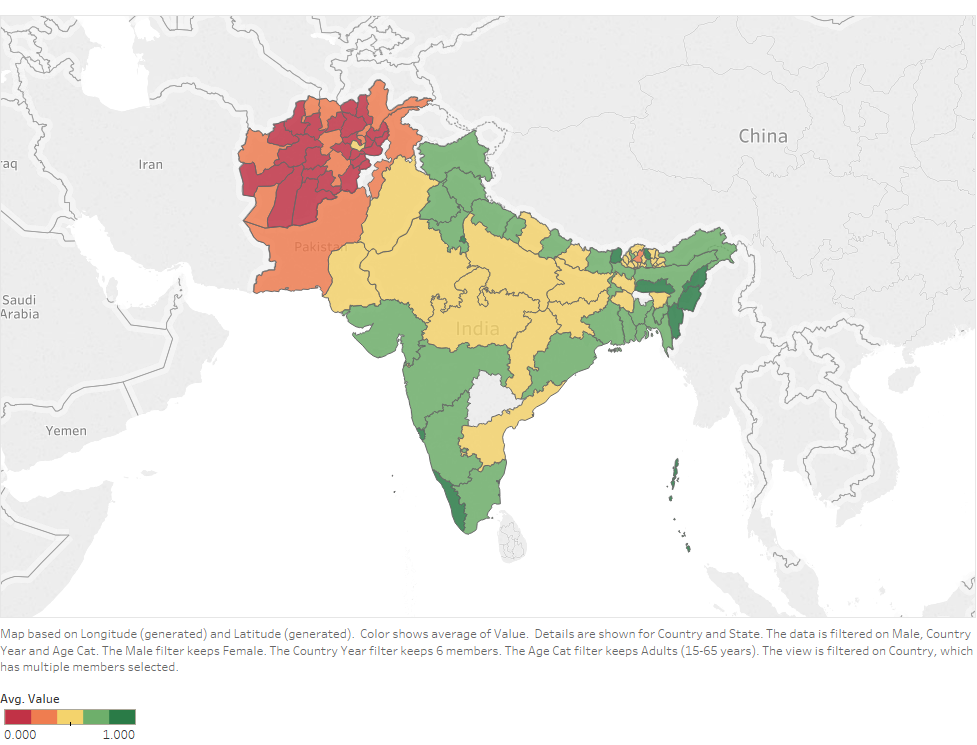
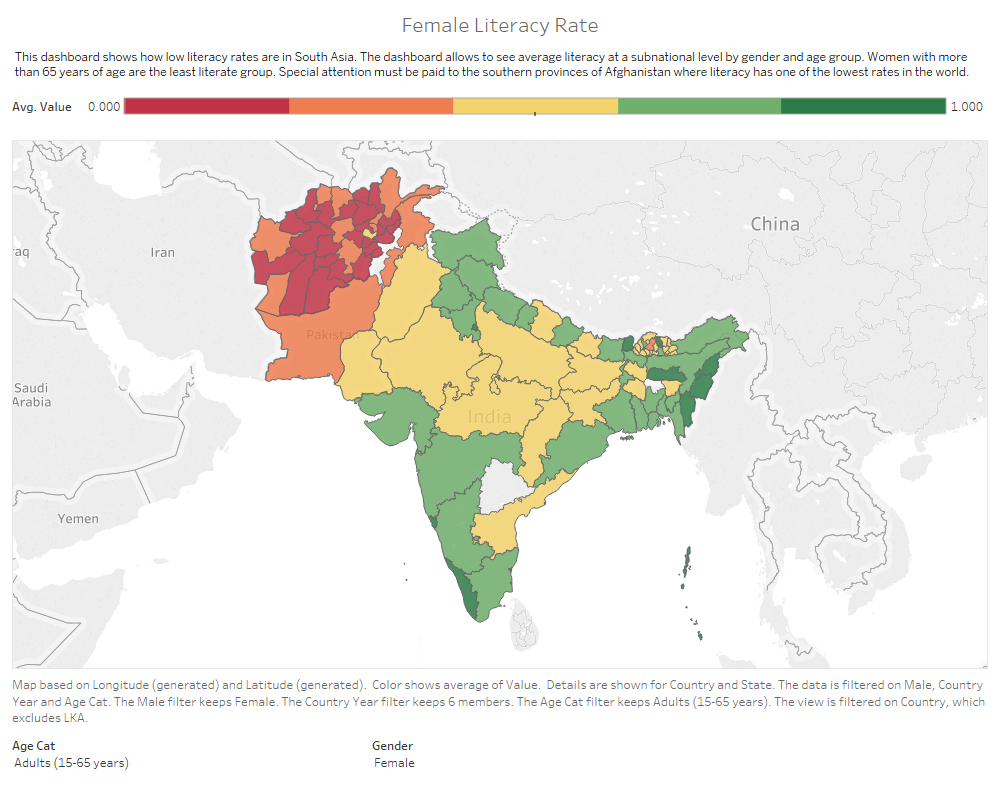
education figures

diff --git a/_book/qcheck.html b/_book/qcheck.html
@@ -25,7 +25,7 @@
 <meta name="author" content="South Asia Region Team for Statistical Development (SARTSD)">
 
 
-<meta name="date" content="2019-04-02">
+<meta name="date" content="2019-04-04">
 
   <meta name="viewport" content="width=device-width, initial-scale=1">
   <meta name="apple-mobile-web-app-capable" content="yes">
@@ -303,6 +303,7 @@ Figure 5.1: <a href="https://tab.worldbank.org/#/site/WBG/views/SAR_MNA_Demograp
 <div id="literacy" class="section level3">
 <h3><span class="header-section-number">5.3.1</span> literacy</h3>
 <p>The adult literacy rate – referring to the population aged 15 and over – is an indicator that measures the accumulated achievement of the education system. The youth literacy rate – the literacy rate in the population aged 15-24 – reflects the outcomes of primary education over roughly the previous 10 years and is a measure of recent educational progress.</p>
+<p><a href="https://tab.worldbank.org/#/site/WBG/views/Note3/Literacy" title="The user may interact with this Tableau dashboard by clicking on the figure."><img src="figures/Literacy.png" /></a></p>
 </div>
 <div id="atschool" class="section level3">
 <h3><span class="header-section-number">5.3.2</span> atschool</h3>
@@ -315,15 +316,19 @@ Figure 5.1: <a href="https://tab.worldbank.org/#/site/WBG/views/SAR_MNA_Demograp
 </div>
 <div id="educy" class="section level3">
 <h3><span class="header-section-number">5.3.5</span> educy</h3>
+<p>Should not include pre-school.</p>
 </div>
 <div id="educat4" class="section level3">
 <h3><span class="header-section-number">5.3.6</span> educat4</h3>
+<p><a href="https://tab.worldbank.org/#/site/WBG/views/SAR_MNAEducationbycategories/Percentages" title="The user may interact with this Tableau dashboard by clicking on the figure."><img src="figures/educat4_tab.png" /></a></p>
 </div>
 <div id="educat5" class="section level3">
 <h3><span class="header-section-number">5.3.7</span> educat5</h3>
+<p><a href="https://tab.worldbank.org/#/site/WBG/views/SAR_MNAEducationbycategories/Percentages" title="The user may interact with this Tableau dashboard by clicking on the figure."><img src="figures/educat5_tab.png" /></a></p>
 </div>
 <div id="educat7" class="section level3">
 <h3><span class="header-section-number">5.3.8</span> educat7</h3>
+<p><a href="https://tab.worldbank.org/#/site/WBG/views/SAR_MNAEducationbycategories/Percentages" title="The user may interact with this Tableau dashboard by clicking on the figure."><img src="figures/educat7_tab.png" /></a></p>
 </div>
 </div>
 <div id="durable-assets-1" class="section level2">
